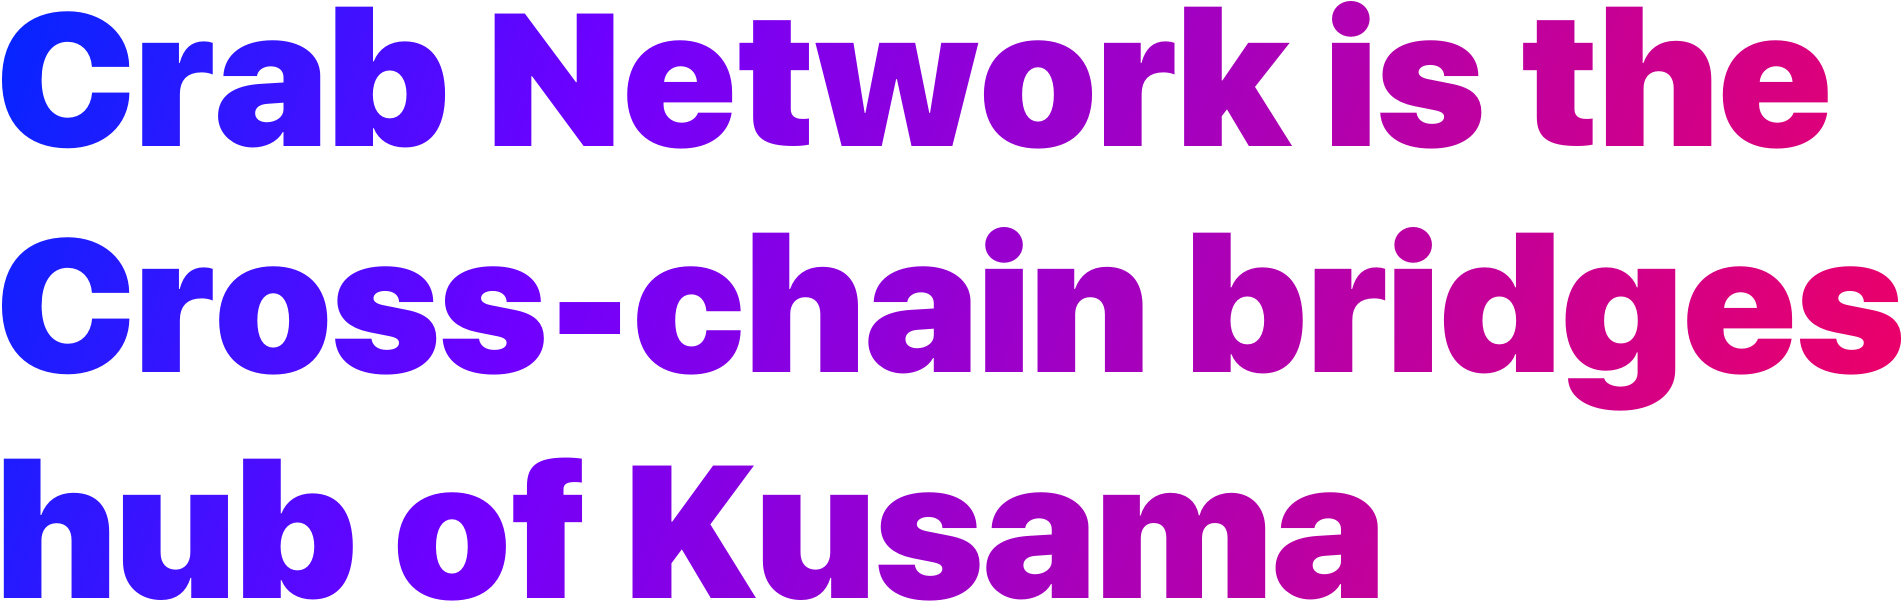
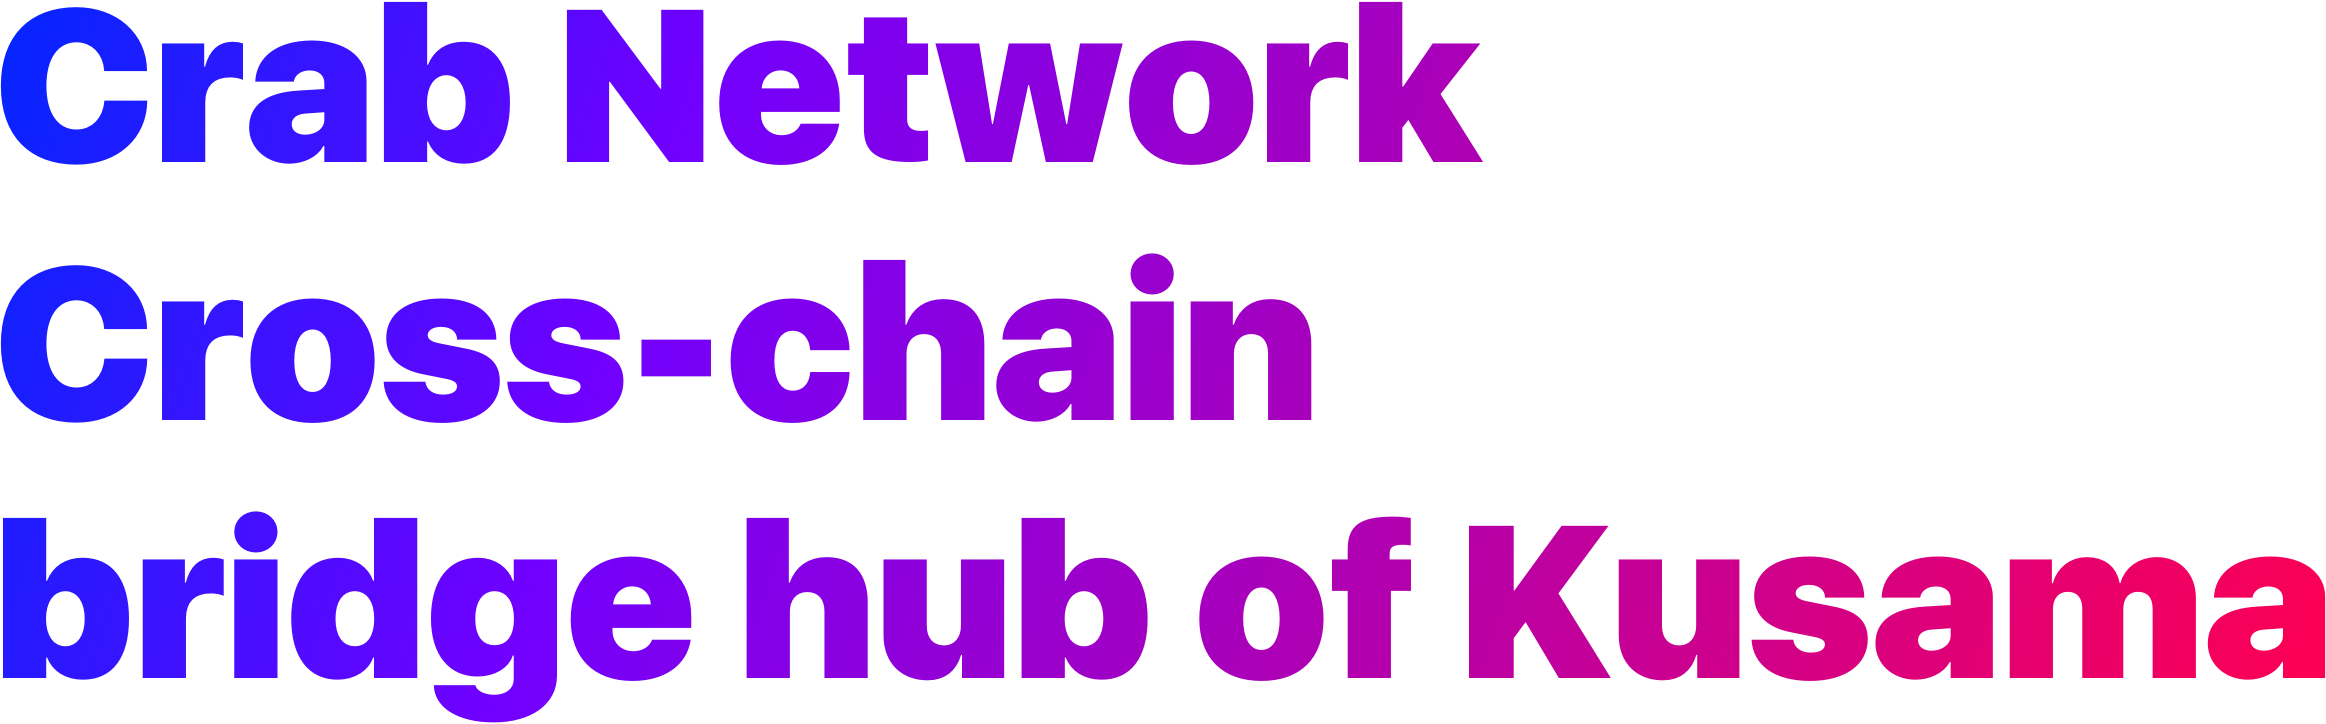
Update title and header image size

diff --git a/src/page/Home/style.module.scss b/src/page/Home/style.module.scss
@@ -277,24 +277,24 @@
             }
 
             .crabImgDesktop {
-                width: 823px;
-                height: 607px;
+                width: 740px;
+                // height: 607px;
                 display: block;
                 position: absolute;
-                left: 48% !important;
+                left: 38% !important;
                 right: 0px !important;
                 top: 30px !important;
                 z-index: 100;
             }
 
             .crabTitleImgDesktop {
-                width: 1021px;
-                height: 339px;
+                width: 950px;
+                // height: 339px;
                 display: block;
                 position: absolute;
                 left: 0 !important;
                 right: auto !important;
-                top: 230px !important;
+                top: 160px !important;
             }
 
             .containerTitleCN {
@@ -335,11 +335,12 @@
                 height: 66px;
                 font-size: 25px;
                 font-family: IBMPlexSans-Bold, IBMPlexSans;
-                font-weight: bold;
+                // font-weight: bold;
                 color: #6330DD;
                 line-height: 33px;
                 margin-left: 0px;
-                margin-top: 0px;
+                margin-top: -60px;
+                margin-bottom: 30px;
             }
 
             .economicTitle {

diff --git a/src/page/Home/index.js b/src/page/Home/index.js
@@ -106,7 +106,7 @@ const Home = () => {
                 <Container >
                     <div className='d-none d-sm-flex justify-content-center'>
                         <Animate>
-                            <img alt='crab cool' src={desktopCrabCoolImg} style={{ width: '1215px', height: '875px', marginLeft: '-600px' }} />
+                            <img alt='crab cool' src={desktopCrabCoolImg} style={{ width: '1100px', marginLeft: '-600px' }} />
                         </Animate>
                         <div className='d-flex flex-column justify-content-center align-items-start'>
                             <Animate delay={100}>

diff --git a/src/components/PageHeader/PageHeader.js b/src/components/PageHeader/PageHeader.js
@@ -92,7 +92,7 @@ const PageHeader = () => {
                         </div>
                         <div className={`d-none d-sm-block`}>
                             <a target="_blank" rel="noopener noreferrer" href='/'>
-                                <img alt='...' src={logoDesktop} style={{ width: '238px', height: '53px' }} />
+                                <img alt='...' src={logoDesktop} style={{ width: '220px' }} />
                             </a>
                         </div>
                     </div>
